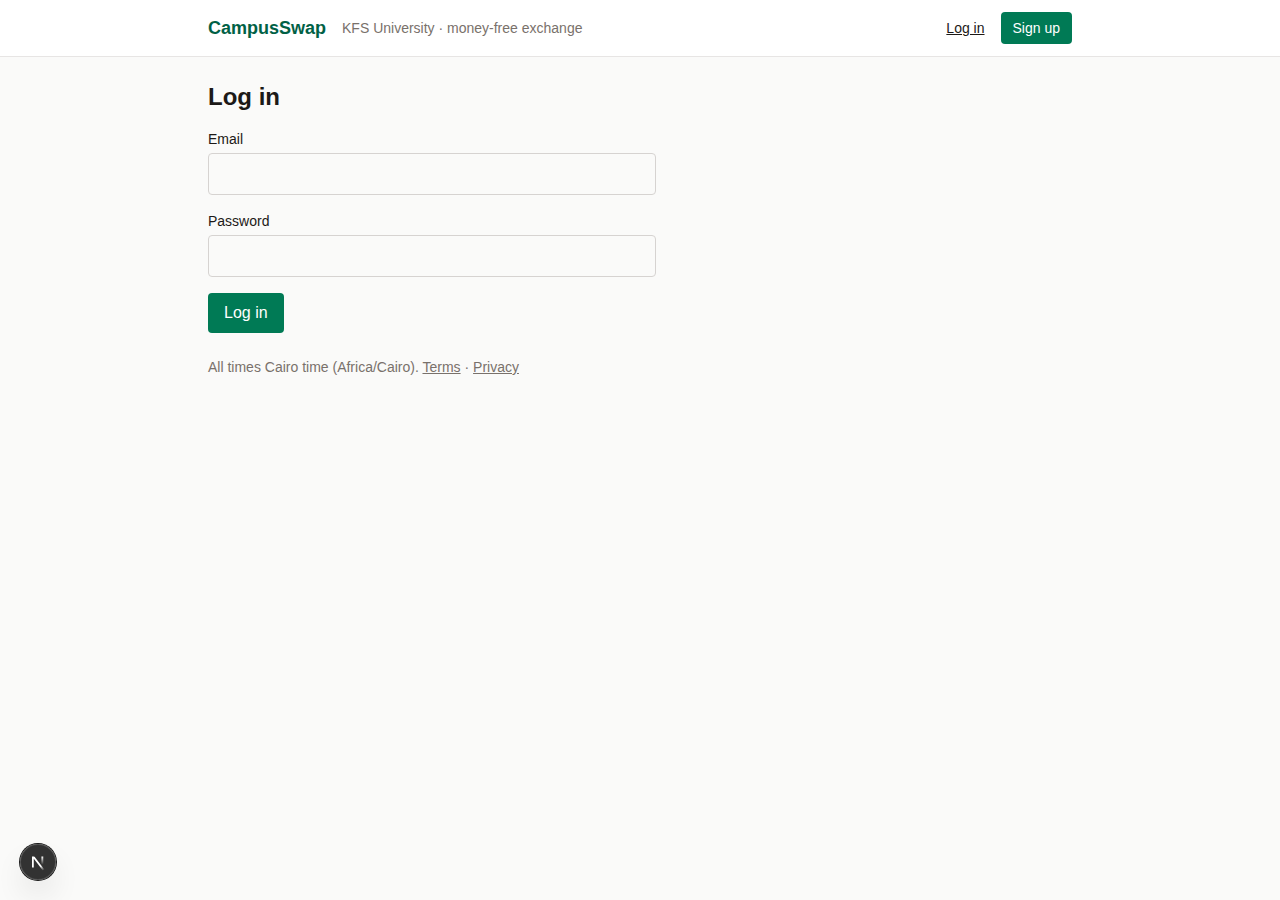
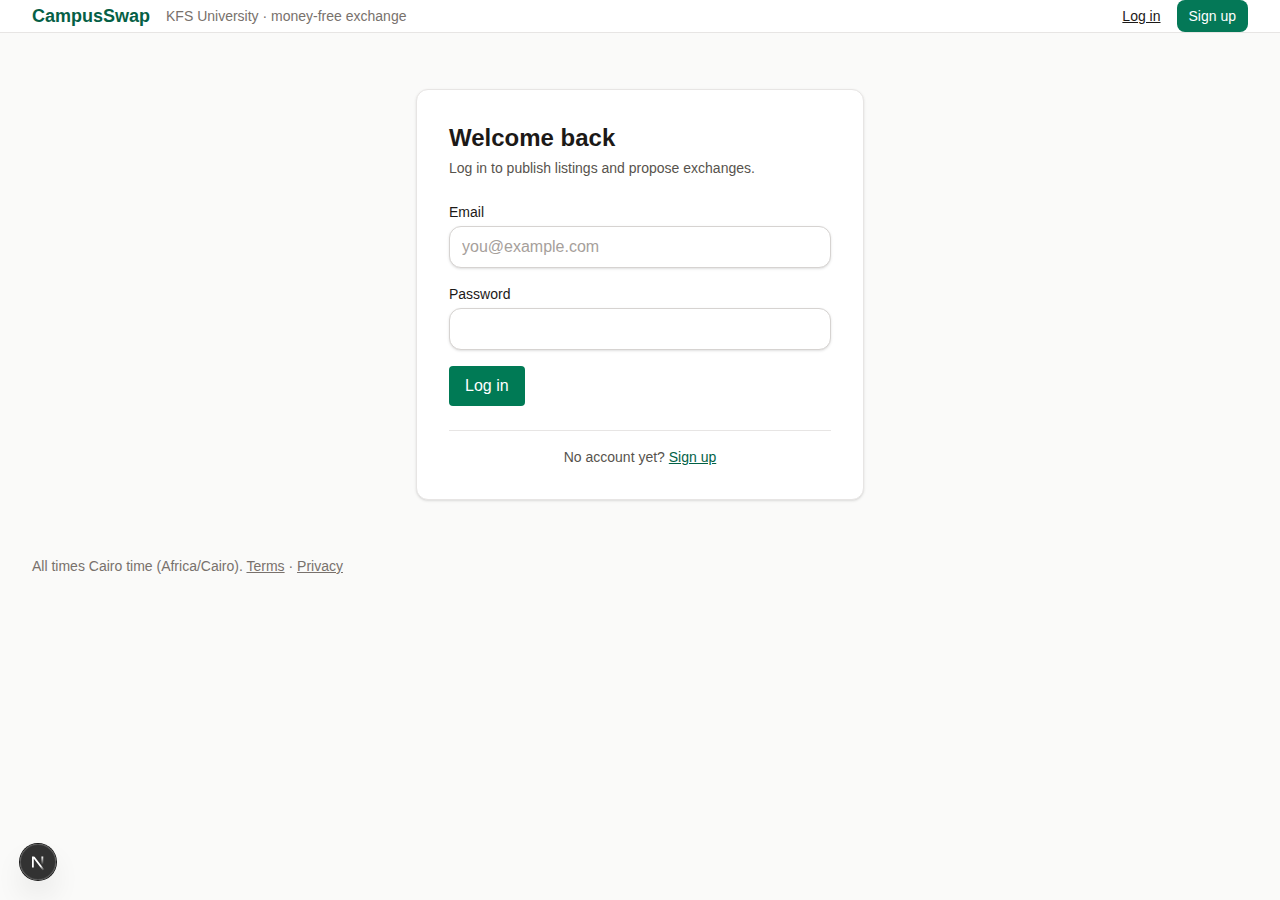
feat(web): centered auth cards on login/signup + refreshed screenshots
Login/signup pages use a centered card with cross-links preserving returnTo; form inputs get consistent focus styling. All FR-ID-1 fields and validation unchanged. Screenshots retaken on the merged marketplace shell.

diff --git a/web/components/SignupForm.tsx b/web/components/SignupForm.tsx
@@ -24,7 +24,8 @@ export function SignupForm({ returnTo }: { returnTo: string }) {
             name="displayName"
             required
             autoComplete="nickname"
-            className="mt-1 w-full rounded border border-stone-300 px-3 py-2"
+            placeholder="e.g. Maya"
+            className="mt-1 w-full rounded-lg border border-stone-300 bg-white px-3 py-2 shadow-sm placeholder:text-stone-400 focus:border-emerald-600 focus:outline-none focus:ring-2 focus:ring-emerald-600/30"
           />
           <FieldErrors errors={state.errors} field="displayName" />
         </div>
@@ -38,7 +39,8 @@ export function SignupForm({ returnTo }: { returnTo: string }) {
             type="email"
             required
             autoComplete="email"
-            className="mt-1 w-full rounded border border-stone-300 px-3 py-2"
+            placeholder="you@example.com"
+            className="mt-1 w-full rounded-lg border border-stone-300 bg-white px-3 py-2 shadow-sm placeholder:text-stone-400 focus:border-emerald-600 focus:outline-none focus:ring-2 focus:ring-emerald-600/30"
           />
           <FieldErrors errors={state.errors} field="email" />
         </div>
@@ -53,7 +55,8 @@ export function SignupForm({ returnTo }: { returnTo: string }) {
             required
             minLength={8}
             autoComplete="new-password"
-            className="mt-1 w-full rounded border border-stone-300 px-3 py-2"
+            placeholder="8+ characters"
+            className="mt-1 w-full rounded-lg border border-stone-300 bg-white px-3 py-2 shadow-sm placeholder:text-stone-400 focus:border-emerald-600 focus:outline-none focus:ring-2 focus:ring-emerald-600/30"
           />
           <FieldErrors errors={state.errors} field="password" />
         </div>
@@ -67,7 +70,7 @@ export function SignupForm({ returnTo }: { returnTo: string }) {
             defaultValue="KFS University"
             required
             autoComplete="off"
-            className="mt-1 w-full rounded border border-stone-300 px-3 py-2"
+            className="mt-1 w-full rounded-lg border border-stone-300 bg-white px-3 py-2 shadow-sm placeholder:text-stone-400 focus:border-emerald-600 focus:outline-none focus:ring-2 focus:ring-emerald-600/30"
           />
           <p className="mt-1 text-sm text-stone-600">
             Self-declared, not verified. Misrepresentation violates the rules.
@@ -76,12 +79,12 @@ export function SignupForm({ returnTo }: { returnTo: string }) {
         </div>
         <div className="space-y-2">
           <label className="flex items-start gap-2 text-sm">
-            <input type="checkbox" name="ageConfirmed18" required className="mt-1" />I confirm I am 18
+            <input type="checkbox" name="ageConfirmed18" required className="mt-1 accent-emerald-700" />I confirm I am 18
             or older (18+ only).
           </label>
           <FieldErrors errors={state.errors} field="ageConfirmed18" />
           <label className="flex items-start gap-2 text-sm">
-            <input type="checkbox" name="rulesAccepted" required className="mt-1" />I accept the
+            <input type="checkbox" name="rulesAccepted" required className="mt-1 accent-emerald-700" />I accept the
             community rules and Terms.
           </label>
           <FieldErrors errors={state.errors} field="rulesAccepted" />

diff --git a/web/app/signup/page.tsx b/web/app/signup/page.tsx
@@ -1,3 +1,4 @@
+import Link from 'next/link';
 import { SignupForm } from '../../components/SignupForm';
 
 export default async function SignupPage({
@@ -6,10 +7,29 @@ export default async function SignupPage({
   searchParams: Promise<{ returnTo?: string }>;
 }) {
   const { returnTo } = await searchParams;
+  const loginHref = returnTo ? `/login?returnTo=${encodeURIComponent(returnTo)}` : '/login';
   return (
-    <div className="max-w-md">
-      <h1 className="mb-4 text-2xl font-bold">Sign up</h1>
-      <SignupForm returnTo={returnTo ?? '/'} />
+    <div className="flex justify-center py-8">
+      <section
+        aria-labelledby="signup-heading"
+        className="w-full max-w-md rounded-xl border border-stone-200 bg-white p-6 shadow-sm sm:p-8"
+      >
+        <h1 id="signup-heading" className="text-2xl font-bold">
+          Create your account
+        </h1>
+        <p className="mt-1 text-sm text-stone-600">
+          Join KFS University&apos;s money-free exchange in under 3 minutes.
+        </p>
+        <div className="mt-6">
+          <SignupForm returnTo={returnTo ?? '/'} />
+        </div>
+        <p className="mt-6 border-t border-stone-200 pt-4 text-center text-sm text-stone-600">
+          Already have an account?{' '}
+          <Link href={loginHref} className="font-medium text-emerald-800 underline">
+            Log in
+          </Link>
+        </p>
+      </section>
     </div>
   );
 }

diff --git a/web/app/login/page.tsx b/web/app/login/page.tsx
@@ -1,3 +1,4 @@
+import Link from 'next/link';
 import { LoginForm } from '../../components/LoginForm';
 
 export default async function LoginPage({
@@ -6,10 +7,29 @@ export default async function LoginPage({
   searchParams: Promise<{ returnTo?: string }>;
 }) {
   const { returnTo } = await searchParams;
+  const signupHref = returnTo ? `/signup?returnTo=${encodeURIComponent(returnTo)}` : '/signup';
   return (
-    <div className="max-w-md">
-      <h1 className="mb-4 text-2xl font-bold">Log in</h1>
-      <LoginForm returnTo={returnTo ?? '/'} />
+    <div className="flex justify-center py-8">
+      <section
+        aria-labelledby="login-heading"
+        className="w-full max-w-md rounded-xl border border-stone-200 bg-white p-6 shadow-sm sm:p-8"
+      >
+        <h1 id="login-heading" className="text-2xl font-bold">
+          Welcome back
+        </h1>
+        <p className="mt-1 text-sm text-stone-600">
+          Log in to publish listings and propose exchanges.
+        </p>
+        <div className="mt-6">
+          <LoginForm returnTo={returnTo ?? '/'} />
+        </div>
+        <p className="mt-6 border-t border-stone-200 pt-4 text-center text-sm text-stone-600">
+          No account yet?{' '}
+          <Link href={signupHref} className="font-medium text-emerald-800 underline">
+            Sign up
+          </Link>
+        </p>
+      </section>
     </div>
   );
 }

diff --git a/web/components/LoginForm.tsx b/web/components/LoginForm.tsx
@@ -22,7 +22,8 @@ export function LoginForm({ returnTo }: { returnTo: string }) {
           type="email"
           required
           autoComplete="email"
-          className="mt-1 w-full rounded border border-stone-300 px-3 py-2"
+          placeholder="you@example.com"
+          className="mt-1 w-full rounded-lg border border-stone-300 bg-white px-3 py-2 shadow-sm placeholder:text-stone-400 focus:border-emerald-600 focus:outline-none focus:ring-2 focus:ring-emerald-600/30"
         />
       </div>
       <div>
@@ -35,7 +36,7 @@ export function LoginForm({ returnTo }: { returnTo: string }) {
           type="password"
           required
           autoComplete="current-password"
-          className="mt-1 w-full rounded border border-stone-300 px-3 py-2"
+          className="mt-1 w-full rounded-lg border border-stone-300 bg-white px-3 py-2 shadow-sm placeholder:text-stone-400 focus:border-emerald-600 focus:outline-none focus:ring-2 focus:ring-emerald-600/30"
         />
       </div>
       <FieldErrors errors={state.errors} />
